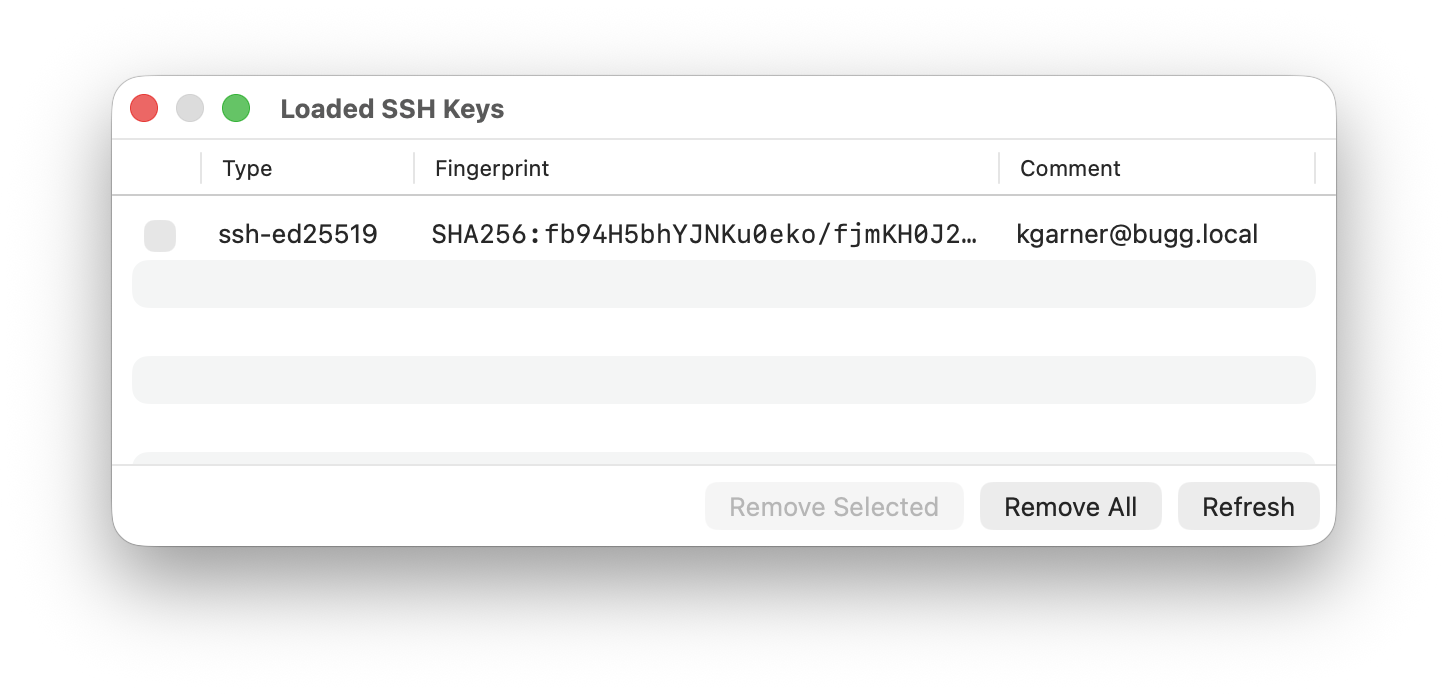
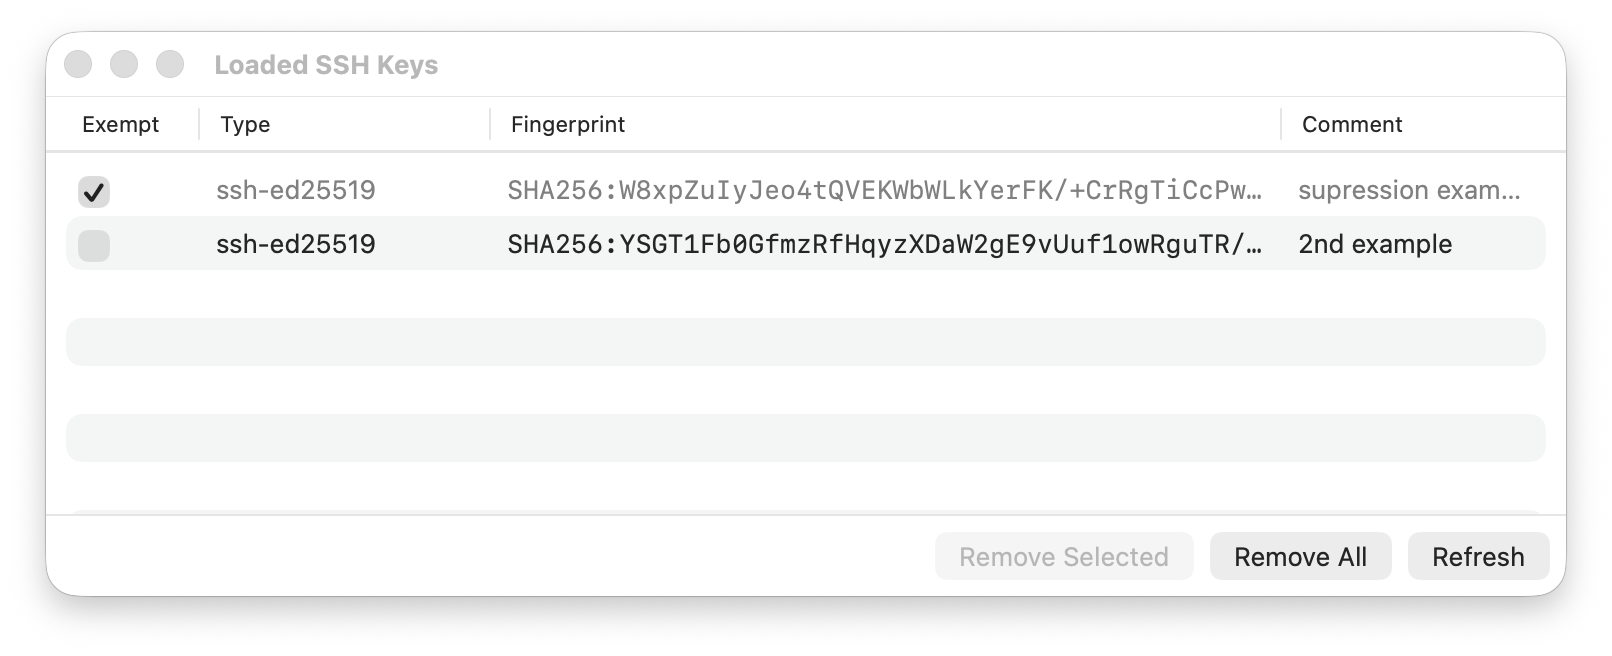
update docs with updated screenshots

Changed region(s): [[0.0311, 0.061, 0.9945, 0.9451]]

diff --git a/README.md b/README.md
@@ -36,6 +36,8 @@ To manage exemptions for keys that aren't currently loaded (or to remove one), u
 You can add an exemption directly by pasting a fingerprint (the same `SHA256:…` value `ssh-add -l` prints), and give it
 a label to remember what it's for.
 
+![excemption dialog screenshot](doc/exemption_dialog.png)
+
 ### What about loading my SSH key?
 
 You can add `AddKeysToAgent yes` to your ssh config. If your key isn't loaded when ssh is invoked, ssh will prompt you
